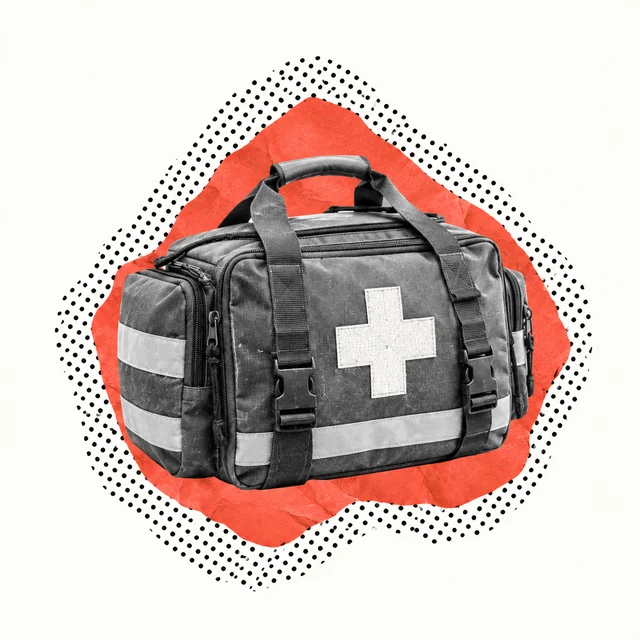
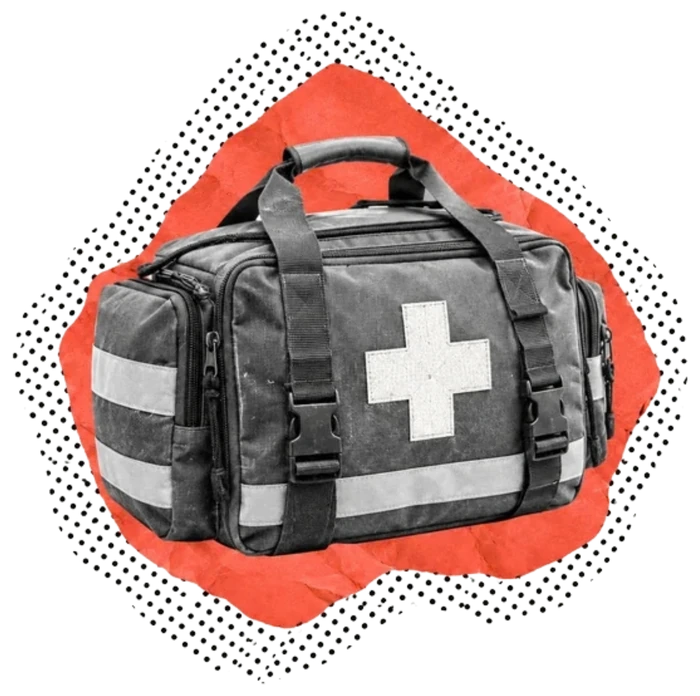
Add files via upload

diff --git a/styles.css b/styles.css
@@ -7078,135 +7078,71 @@ body:has(.fluidOverlay),body:has(.requestDrawerBackdrop){overflow:hidden}
   .publicLanding .pscHeroIllustrationWrap .pscHeroBoardLabel{font-size:9.5px!important;white-space:normal!important}
 }
 
-
-/* V37.7.4 — category illustration placement */
-.clinicNeedCardIllustrated{
-  min-height:214px!important;
-  padding:20px 20px 18px!important;
+/* =========================================================
+   V37.7.5 — transparent clinical category art + refreshed hero
+   Small artwork, generous spacing, no white image tiles.
+   ========================================================= */
+.v26CatalogueLanding .clinicNeedCardIllustrated{
+  min-height:198px!important;
+  padding:20px!important;
 }
-.clinicNeedCardIllustrated .clinicNeedIcon{
+.v26CatalogueLanding .clinicNeedCardIllustrated .clinicNeedIcon{
   display:flex!important;
-  align-items:flex-end!important;
-  justify-content:flex-end!important;
   position:absolute!important;
-  right:14px!important;
-  bottom:10px!important;
-  top:auto!important;
-  width:116px!important;
-  height:116px!important;
+  top:18px!important;
+  right:18px!important;
+  width:88px!important;
+  height:88px!important;
+  align-items:center!important;
+  justify-content:center!important;
   background:transparent!important;
   border-radius:0!important;
-  overflow:visible!important;
   box-shadow:none!important;
+  overflow:visible!important;
 }
-.clinicNeedCardIllustrated .clinicNeedIcon img{
+.v26CatalogueLanding .clinicNeedCardIllustrated .clinicNeedIcon img{
   display:block!important;
   width:100%!important;
   height:100%!important;
   object-fit:contain!important;
+  background:transparent!important;
 }
-.clinicNeedCardIllustrated .clinicNeedIcon svg{
-  width:28px!important;
-  height:28px!important;
+.v26CatalogueLanding .clinicNeedCardIllustrated .clinicNeedIcon svg{
+  width:26px!important;
+  height:26px!important;
 }
-.clinicNeedCardIllustrated .clinicNeedCopy{
+.v26CatalogueLanding .clinicNeedCardIllustrated .clinicNeedCopy{
   left:20px!important;
-  right:138px!important;
+  right:126px!important;
   bottom:20px!important;
 }
-.clinicNeedCardIllustrated .clinicNeedCopy b{
+.v26CatalogueLanding .clinicNeedCardIllustrated .clinicNeedCopy b{
   font-size:18px!important;
-  line-height:1.03!important;
+  line-height:1.04!important;
 }
-.clinicNeedCardIllustrated .clinicNeedCopy small{
-  margin-top:10px!important;
+.v26CatalogueLanding .clinicNeedCardIllustrated .clinicNeedCopy small{
+  margin-top:9px!important;
   font-size:10.5px!important;
   line-height:1.45!important;
-  opacity:.78!important;
+  opacity:.77!important;
 }
-.clinicNeedCardIllustrated .clinicNeedArrow{
+.v26CatalogueLanding .clinicNeedCardIllustrated .clinicNeedArrow{
   display:none!important;
 }
 @media(max-width:1180px){
-  .clinicNeedCardIllustrated{min-height:196px!important}
-  .clinicNeedCardIllustrated .clinicNeedIcon{width:100px!important;height:100px!important;right:12px!important;bottom:10px!important}
-  .clinicNeedCardIllustrated .clinicNeedCopy{right:122px!important}
+  .v26CatalogueLanding .clinicNeedCardIllustrated{min-height:188px!important}
+  .v26CatalogueLanding .clinicNeedCardIllustrated .clinicNeedIcon{width:80px!important;height:80px!important;right:15px!important;top:15px!important}
+  .v26CatalogueLanding .clinicNeedCardIllustrated .clinicNeedCopy{right:112px!important}
 }
 @media(max-width:820px){
-  .clinicNeedCardIllustrated{min-height:174px!important;padding:16px!important}
-  .clinicNeedCardIllustrated .clinicNeedIcon{width:80px!important;height:80px!important;right:10px!important;bottom:10px!important}
-  .clinicNeedCardIllustrated .clinicNeedCopy{left:16px!important;right:96px!important;bottom:16px!important}
-  .clinicNeedCardIllustrated .clinicNeedCopy b{font-size:15px!important}
-  .clinicNeedCardIllustrated .clinicNeedCopy small{font-size:9px!important;line-height:1.35!important;margin-top:8px!important}
+  .v26CatalogueLanding .clinicNeedCardIllustrated{min-height:170px!important;padding:16px!important}
+  .v26CatalogueLanding .clinicNeedCardIllustrated .clinicNeedIcon{width:66px!important;height:66px!important;right:12px!important;top:12px!important}
+  .v26CatalogueLanding .clinicNeedCardIllustrated .clinicNeedCopy{left:16px!important;right:90px!important;bottom:16px!important}
+  .v26CatalogueLanding .clinicNeedCardIllustrated .clinicNeedCopy b{font-size:15px!important}
+  .v26CatalogueLanding .clinicNeedCardIllustrated .clinicNeedCopy small{font-size:9px!important;line-height:1.35!important}
 }
 @media(max-width:560px){
-  .clinicNeedCardIllustrated{min-height:164px!important}
-  .clinicNeedCardIllustrated .clinicNeedIcon{width:70px!important;height:70px!important}
-  .clinicNeedCardIllustrated .clinicNeedCopy{right:84px!important}
-}
-
-/* =========================================================
-   V37.7.5 — Homepage clinical category illustrations
-   Keep the cards spacious; art is a small visual cue, not the card content.
-   ========================================================= */
-.publicLanding .publicClinicalCard.illustrated{
-  min-height:188px!important;
-  padding:24px 22px!important;
-  justify-content:flex-end!important;
-}
-.publicLanding .publicClinicalCard.illustrated .publicClinicalCardArt{
-  position:absolute!important;
-  top:16px!important;
-  right:18px!important;
-  width:92px!important;
-  height:92px!important;
-  object-fit:contain!important;
-  pointer-events:none!important;
-  user-select:none!important;
-  opacity:.96!important;
-}
-.publicLanding .publicClinicalCard.illustrated span{
-  max-width:66%!important;
-  position:relative!important;
-  z-index:1!important;
-}
-.publicLanding .publicClinicalCard.illustrated small{
-  max-width:68%!important;
-  position:relative!important;
-  z-index:1!important;
-}
-@media(max-width:1180px){
-  .publicLanding .publicClinicalCard.illustrated .publicClinicalCardArt{
-    width:82px!important;
-    height:82px!important;
-    top:14px!important;
-    right:14px!important;
-  }
-  .publicLanding .publicClinicalCard.illustrated span,
-  .publicLanding .publicClinicalCard.illustrated small{max-width:64%!important}
-}
-@media(max-width:820px){
-  .publicLanding .publicClinicalCard.illustrated{
-    min-height:162px!important;
-    padding:18px 16px!important;
-  }
-  .publicLanding .publicClinicalCard.illustrated .publicClinicalCardArt{
-    width:68px!important;
-    height:68px!important;
-    top:12px!important;
-    right:12px!important;
-  }
-  .publicLanding .publicClinicalCard.illustrated span,
-  .publicLanding .publicClinicalCard.illustrated small{max-width:66%!important}
-}
-@media(max-width:560px){
-  .publicLanding .publicClinicalCard.illustrated{
-    min-height:152px!important;
-  }
-  .publicLanding .publicClinicalCard.illustrated .publicClinicalCardArt{
-    width:62px!important;
-    height:62px!important;
-  }
-  .publicLanding .publicClinicalCard.illustrated span{max-width:70%!important}
-  .publicLanding .publicClinicalCard.illustrated small{max-width:72%!important}
+  .v26CatalogueLanding .clinicNeedCardIllustrated{min-height:160px!important}
+  .v26CatalogueLanding .clinicNeedCardIllustrated .clinicNeedIcon{width:60px!important;height:60px!important}
+  .v26CatalogueLanding .clinicNeedCardIllustrated .clinicNeedCopy{right:82px!important}
 }

diff --git a/app.js b/app.js
@@ -111,6 +111,7 @@
     };
     return m[id]||m.all;
   }
+
   function clinicalNeedIllustration(id){
     const m={
       wounds:'/assets/category-wounds.webp',
@@ -958,38 +959,32 @@
         </div>
 
         <div class="publicClinicalPreviewGrid">
-          <button class="publicClinicalCard coral illustrated" data-go="catalogue/wounds">
-            <img class="publicClinicalCardArt" src="/assets/category-wounds.webp" alt="" aria-hidden="true" loading="lazy" decoding="async">
+          <button class="publicClinicalCard coral" data-go="catalogue/wounds">
             <span>Cuts &amp; Wounds</span>
             <small>Dressings, antiseptics, gauze, closure and wound protection</small>
           </button>
 
-          <button class="publicClinicalCard blue illustrated" data-go="catalogue/breathing">
-            <img class="publicClinicalCardArt" src="/assets/category-breathing.webp" alt="" aria-hidden="true" loading="lazy" decoding="async">
+          <button class="publicClinicalCard blue" data-go="catalogue/breathing">
             <span>Breathing &amp; Oxygen</span>
             <small>Nebulisation, oxygen delivery, airway and respiratory support</small>
           </button>
 
-          <button class="publicClinicalCard orange illustrated" data-go="catalogue/vitals">
-            <img class="publicClinicalCardArt" src="/assets/category-vitals.webp" alt="" aria-hidden="true" loading="lazy" decoding="async">
+          <button class="publicClinicalCard orange" data-go="catalogue/vitals">
             <span>Vitals &amp; Assessment</span>
             <small>Blood pressure, temperature, oximetry and clinical assessment</small>
           </button>
 
-          <button class="publicClinicalCard mint illustrated" data-go="catalogue/infection">
-            <img class="publicClinicalCardArt" src="/assets/category-infection.webp" alt="" aria-hidden="true" loading="lazy" decoding="async">
+          <button class="publicClinicalCard mint" data-go="catalogue/infection">
             <span>Infection Control &amp; PPE</span>
             <small>PPE, hand hygiene, disinfection and waste control</small>
           </button>
 
-          <button class="publicClinicalCard rose illustrated" data-go="catalogue/emergency">
-            <img class="publicClinicalCardArt" src="/assets/category-emergency.webp" alt="" aria-hidden="true" loading="lazy" decoding="async">
+          <button class="publicClinicalCard rose" data-go="catalogue/emergency">
             <span>Emergency &amp; Response</span>
             <small>Resuscitation, first response and urgent-use products</small>
           </button>
 
-          <button class="publicClinicalCard sand illustrated" data-go="catalogue/equipment">
-            <img class="publicClinicalCardArt" src="/assets/category-equipment.webp" alt="" aria-hidden="true" loading="lazy" decoding="async">
+          <button class="publicClinicalCard sand" data-go="catalogue/equipment">
             <span>Equipment &amp; Mobility</span>
             <small>Clinical furniture, mobility, storage and capital equipment</small>
           </button>

diff --git a/V37_7_5_ART_UPDATE.md b/V37_7_5_ART_UPDATE.md
@@ -1,0 +1,8 @@
+# V37.7.5 — Artwork update
+
+- Replaced the six clinical-category illustrations with the new transparent PNG source artwork supplied by the user.
+- Removed the visible white tiles by using genuine alpha-channel artwork.
+- Kept the category illustrations intentionally small with generous card spacing.
+- Replaced the homepage hero illustration with the newly supplied Pharma Service catalogue artwork.
+- Optimized the artwork to transparent WebP for a much smaller deployment/download package.
+- No Mail Desk, portal, catalogue data, order, quote, auth or Supabase behaviour changed.
